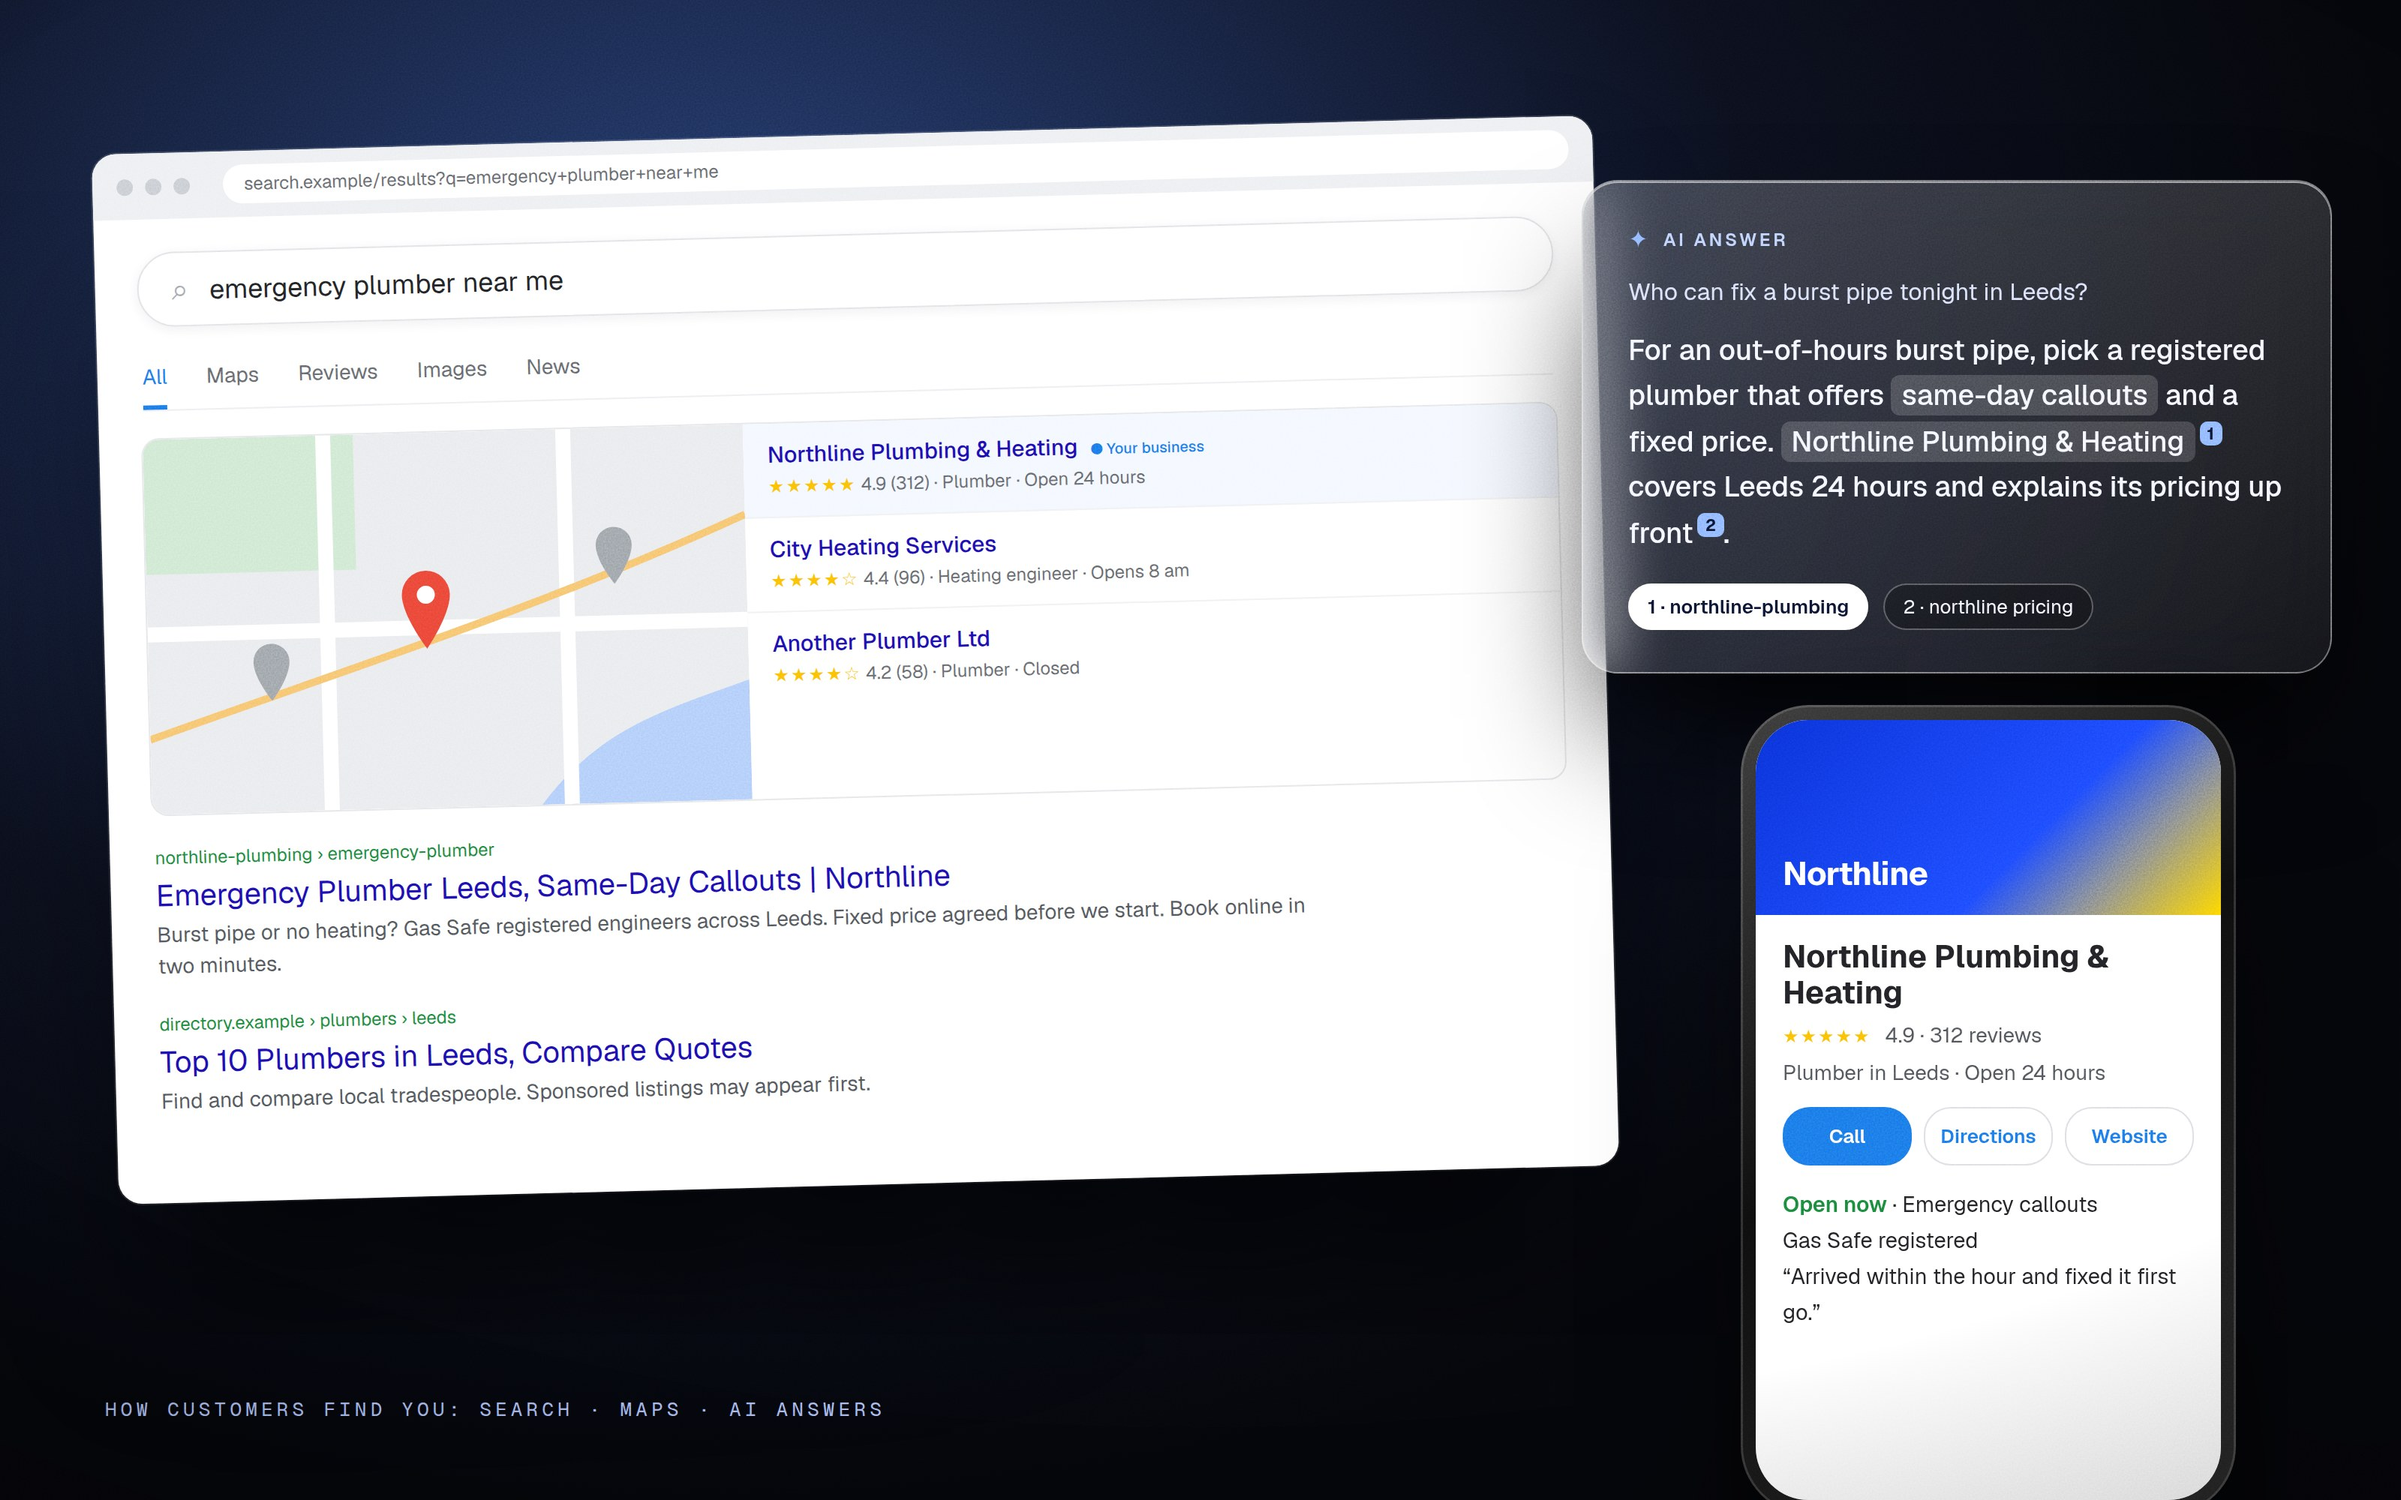
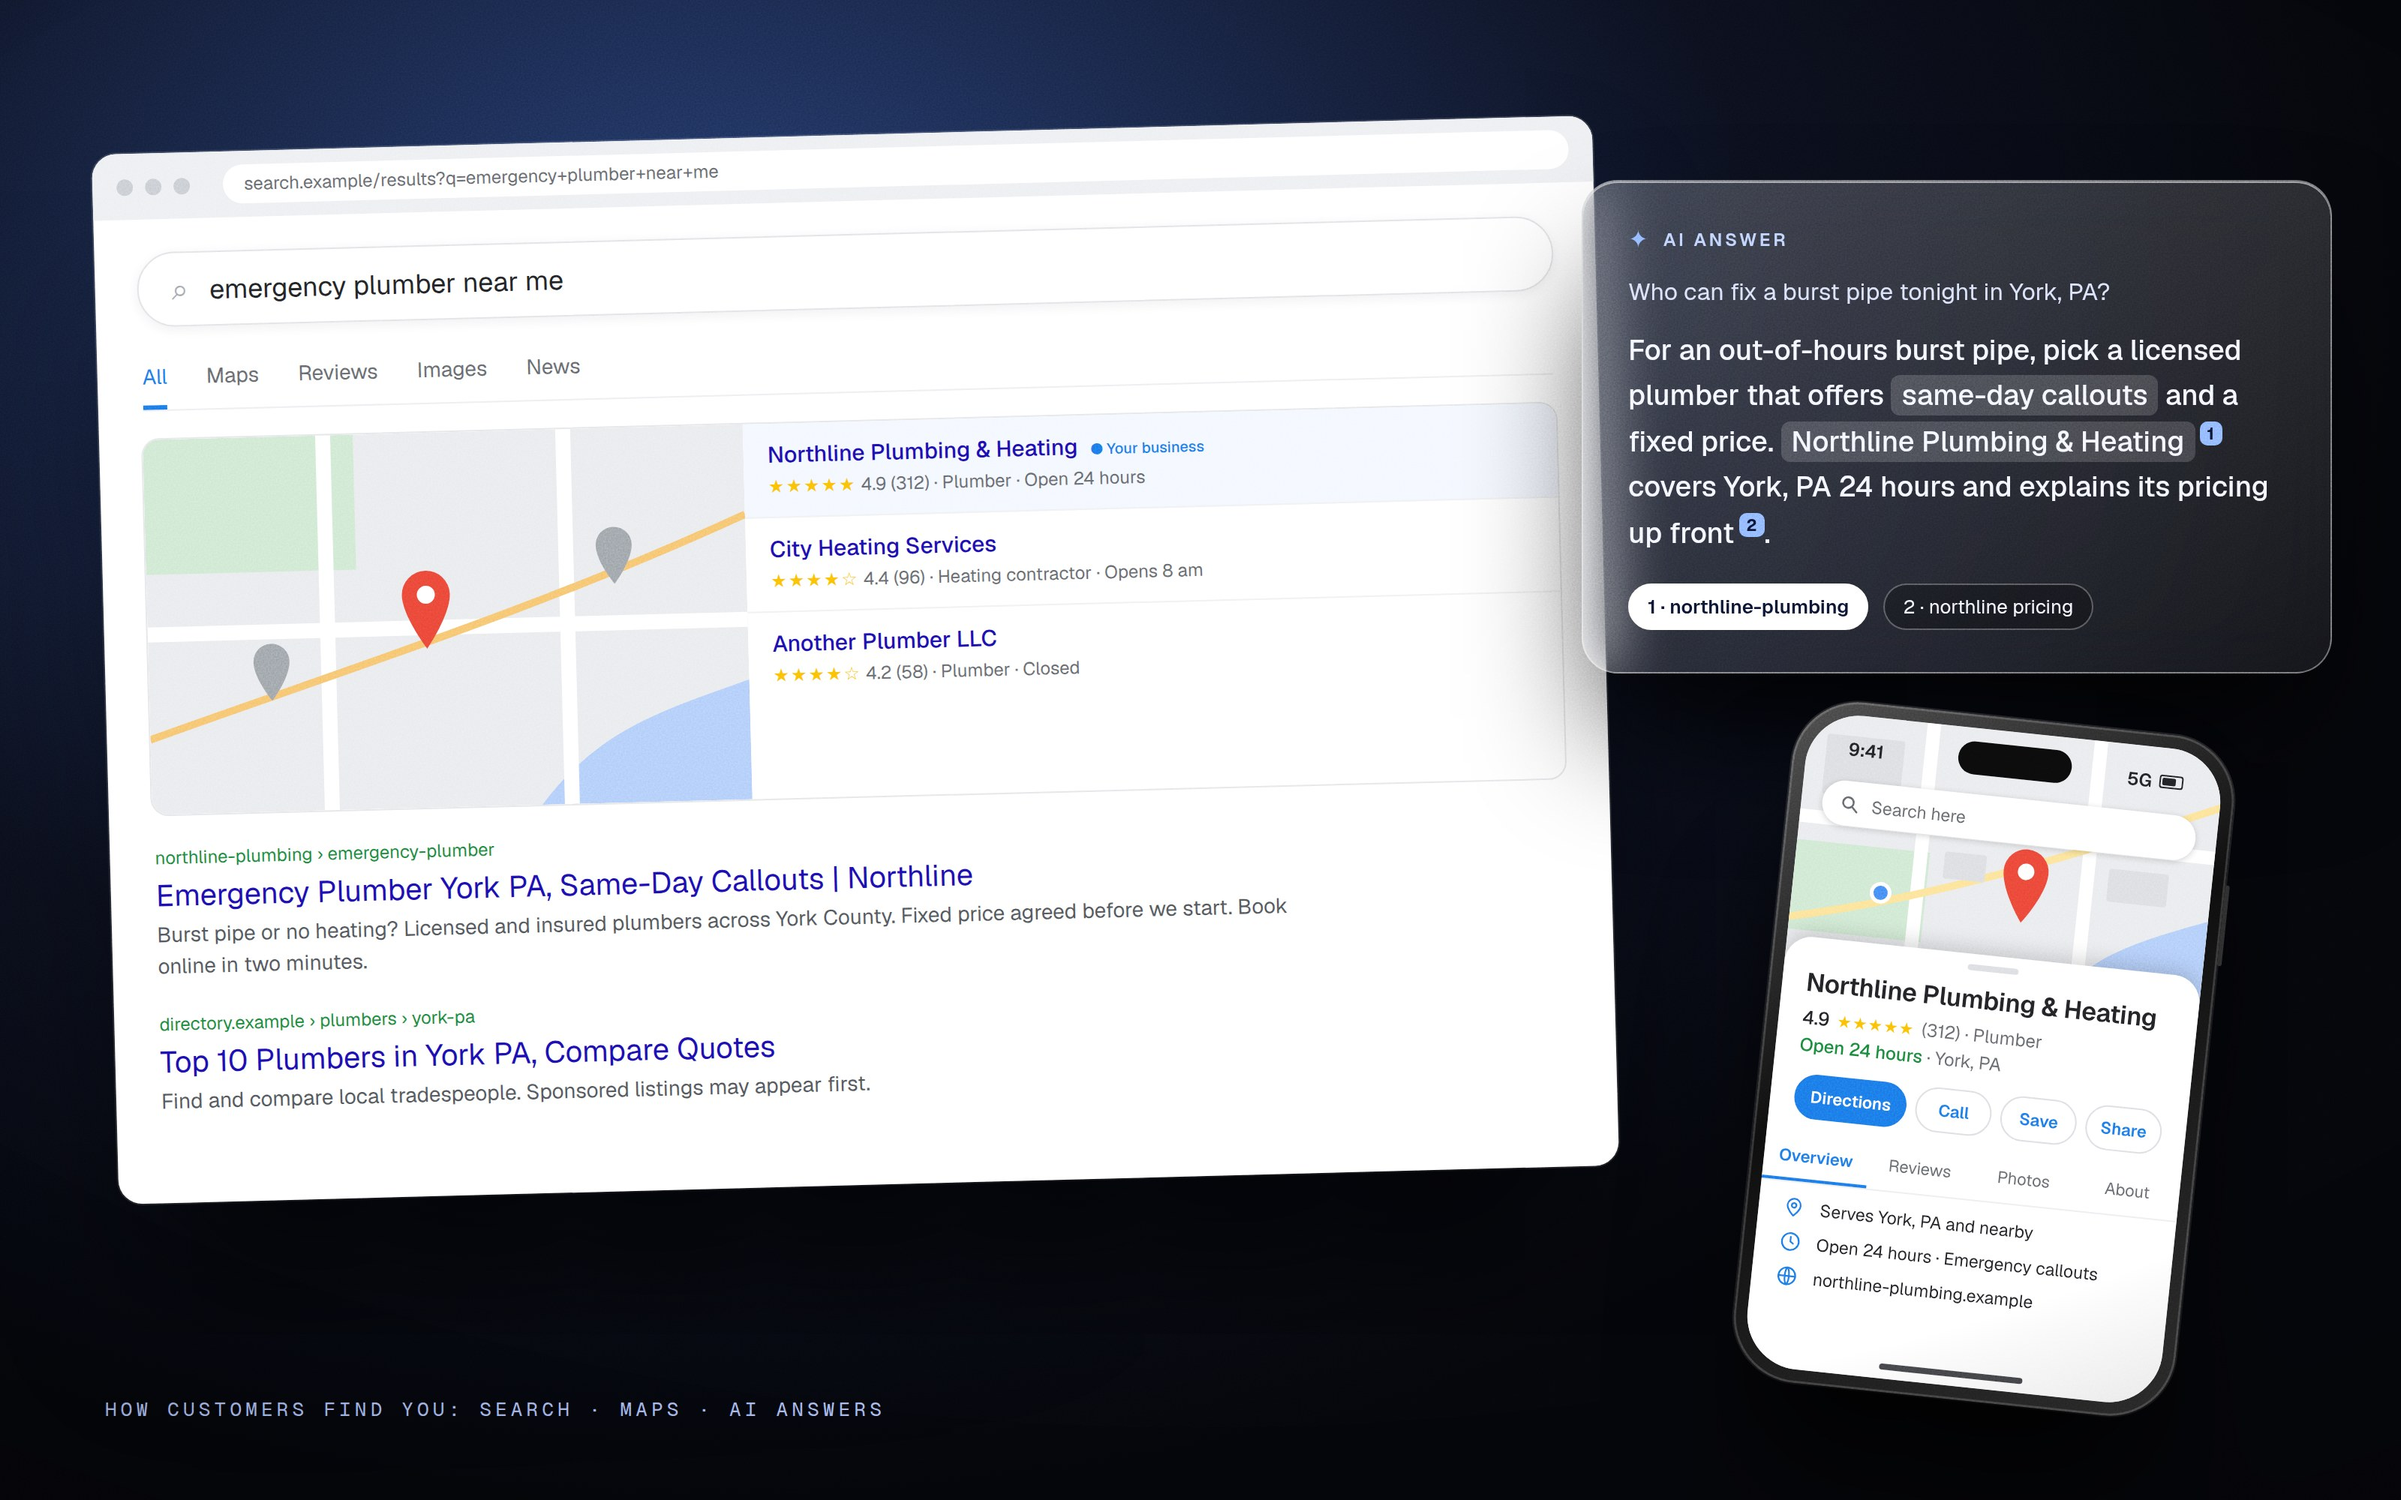
SEO visual: realistic Google Maps phone preview, tilted and smaller; York PA copy
Claude-Session: https://claude.ai/code/session_01CjcNwziT3LMe1wqcJ5e6Nj

diff --git a/design/mockups/scenes/seo-search.html b/design/mockups/scenes/seo-search.html
@@ -17,12 +17,23 @@
 .ai h5{font-size:12px;letter-spacing:.16em;text-transform:uppercase;color:#bcd0ff;font-weight:600;display:flex;align-items:center;gap:8px}.ai h5::before{content:"✦";font-size:16px;color:#8ab4ff}
 .q{margin-top:14px;font-size:16px;color:#d8e0fa}.a{margin-top:14px;font-size:19px;line-height:1.6;font-weight:500}.a em{font-style:normal;background:#ffffff26;padding:1px 7px;border-radius:6px}.a sup{font-size:11px;background:#8ab4ff;color:#0b1330;border-radius:5px;padding:1px 5px;margin-left:3px;font-weight:700}
 .src{display:flex;gap:10px;margin-top:18px;flex-wrap:wrap}.src span{font-size:13px;border:1px solid #ffffff44;border-radius:999px;padding:6px 12px;background:#00000040}.src span.top{background:#fff;color:#0b1330;border-color:#fff;font-weight:600}
-.phone{position:absolute;right:110px;top:470px;width:330px;height:540px;border-radius:46px;padding:10px;background:linear-gradient(145deg,#3a3a3a,#0d0d0d 45%,#262626);box-shadow:0 70px 110px -20px #000,inset 0 0 0 1.5px #ffffff22}
-.scr{position:relative;width:100%;height:100%;border-radius:35px;background:#fff;color:#202124;overflow:hidden}
-.ph1{height:130px;background:linear-gradient(135deg,#0a2fd6,#1c47ff 60%,#ffd400);position:relative}.ph1 b{position:absolute;left:18px;bottom:14px;color:#fff;font-size:22px;letter-spacing:-.02em}
-.pn{padding:16px 18px}.pn h3{font-size:21px;line-height:1.15}.pn .r{margin-top:7px;font-size:14px;color:#4d5156}.pn .r .star{margin-right:6px}
-.btns{display:grid;grid-template-columns:repeat(3,1fr);gap:8px;margin-top:14px}.btns span{border:1px solid #dadce0;border-radius:18px;text-align:center;padding:10px 0;font-size:13px;color:#1a73e8;font-weight:600}.btns .p{background:#1a73e8;color:#fff;border-color:#1a73e8}
-.row{margin-top:14px;font-size:14.5px;color:#202124;line-height:1.65}.row b{color:#188038;font-weight:600}
+.phone{position:absolute;right:130px;top:478px;width:296px;height:456px;border-radius:44px;padding:9px;background:linear-gradient(145deg,#4a4a4a,#0d0d0d 45%,#2a2a2a);box-shadow:0 60px 90px -20px #000,0 0 0 1px #ffffff1c,inset 0 0 0 1.5px #ffffff26;transform:rotate(6deg);transform-origin:50% 50%}
+.phone::before{content:"";position:absolute;right:-3px;top:96px;width:3px;height:54px;border-radius:2px;background:#2b2b2b}
+.scr{position:relative;width:100%;height:100%;border-radius:36px;background:#e8eaed;color:#202124;overflow:hidden;font-family:"G",system-ui,sans-serif}
+.isl{position:absolute;left:50%;top:9px;width:76px;height:22px;margin-left:-38px;border-radius:12px;background:#0b0b0b;z-index:5}
+.stat{position:absolute;left:0;right:0;top:0;height:40px;z-index:4;display:flex;justify-content:space-between;align-items:center;padding:6px 26px 0 28px;font-size:12px;font-weight:600;color:#202124}
+.stat i{display:inline-block;width:16px;height:9px;border-radius:2px;border:1.5px solid #202124;position:relative;margin-left:5px}.stat i::after{content:"";position:absolute;left:1px;top:1px;bottom:1px;width:9px;background:#202124;border-radius:1px}
+.gm{position:absolute;left:0;right:0;top:0;height:178px}.gm>svg{position:absolute;inset:0;width:100%;height:100%}
+.gsearch{position:absolute;left:14px;right:14px;top:44px;height:30px;border-radius:15px;background:#fff;box-shadow:0 1px 4px #0003;font-size:11.5px;color:#5f6368;display:flex;align-items:center;padding:0 12px;gap:8px;z-index:3}
+.sheet{position:absolute;left:0;right:0;top:150px;bottom:0;background:#fff;border-radius:18px 18px 0 0;box-shadow:0 -3px 14px #0003;padding:0 16px}
+.grab{width:34px;height:4px;border-radius:2px;background:#dadce0;margin:7px auto 9px}
+.sheet h3{font-size:17px;line-height:1.2;font-weight:600;letter-spacing:-.01em}
+.rt{display:flex;align-items:center;gap:5px;margin-top:5px;font-size:12px;color:#5f6368}.rt b{color:#202124;font-weight:500;font-size:12.5px}.rt .star{font-size:11px;letter-spacing:.5px}
+.sub{margin-top:2px;font-size:12px;color:#5f6368}.sub u{text-decoration:none;color:#188038;font-weight:500}
+.act{display:flex;gap:6px;margin-top:11px}.act span{flex:1;border:1px solid #dadce0;border-radius:16px;text-align:center;padding:7px 0;font-size:11px;color:#1a73e8;font-weight:600}.act .p{background:#1a73e8;border-color:#1a73e8;color:#fff;flex:1.5}
+.gtabs{display:flex;margin:10px -16px 0;border-bottom:1px solid #ebedf0;font-size:11px;color:#5f6368}.gtabs span{flex:1;text-align:center;padding:8px 0}.gtabs .on{color:#1a73e8;font-weight:600;border-bottom:2.5px solid #1a73e8}
+.inf{margin-top:9px;font-size:11.5px;color:#202124;display:grid;gap:8px}.inf div{display:flex;align-items:center;gap:10px}.inf svg{width:15px;height:15px;flex:none;fill:none;stroke:#1a73e8;stroke-width:1.8;stroke-linecap:round;stroke-linejoin:round}
+.hbar{position:absolute;left:50%;bottom:6px;width:96px;height:4px;margin-left:-48px;border-radius:2px;background:#202124;opacity:.85}
 .cap{position:absolute;left:70px;bottom:52px;font-family:"M";font-size:13px;letter-spacing:.2em;text-transform:uppercase;color:#9fb2e8}
 </style></head><body data-w="1600" data-h="1000" data-scale="2" data-q="88">
 <div class="edit vig"><div class="bg"></div>
@@ -30,11 +41,24 @@
   <div class="search"><span>⌕</span><b>emergency plumber near me</b></div>
   <div class="tabs"><span class="on">All</span><span>Maps</span><span>Reviews</span><span>Images</span><span>News</span></div>
   <div class="pack"><div class="map"><svg viewBox="0 0 400 250" preserveAspectRatio="xMidYMid slice"><rect width="400" height="250" fill="#e8eaed"/><rect x="0" y="0" width="140" height="90" fill="#cde8d0"/><path d="M260 250 C300 200 340 190 400 170 L400 250Z" fill="#aecbfa"/><g stroke="#fff" stroke-width="10" fill="none"><path d="M0 130H400M120 0V250M280 0V250"/></g><g stroke="#f6c26b" stroke-width="5" fill="none"><path d="M0 200 C120 160 260 120 400 60"/></g><g><path d="M200 108a16 16 0 1 1 32 0c0 14-16 36-16 36s-16-22-16-36z" transform="translate(-30 0)" fill="#ea4335"/><circle cx="186" cy="108" r="6" fill="#fff"/><path d="M0 0" /><path d="M300 78a12 12 0 1 1 24 0c0 11-12 26-12 26s-12-15-12-26z" fill="#9aa0a6"/><path d="M70 150a12 12 0 1 1 24 0c0 11-12 26-12 26s-12-15-12-26z" fill="#9aa0a6"/></g></svg></div>
-   <div class="list"><div class="you"><b>Northline Plumbing &amp; Heating</b><small><span class="star">★★★★★</span> 4.9 (312) · Plumber · Open 24 hours</small></div><div><b>City Heating Services</b><small><span class="star">★★★★☆</span> 4.4 (96) · Heating engineer · Opens 8 am</small></div><div><b>Another Plumber Ltd</b><small><span class="star">★★★★☆</span> 4.2 (58) · Plumber · Closed</small></div></div></div>
-  <div class="res"><small>northline-plumbing › emergency-plumber</small><h4>Emergency Plumber Leeds, Same-Day Callouts | Northline</h4><p>Burst pipe or no heating? Gas Safe registered engineers across Leeds. Fixed price agreed before we start. Book online in two minutes.</p></div>
-  <div class="res"><small>directory.example › plumbers › leeds</small><h4>Top 10 Plumbers in Leeds, Compare Quotes</h4><p>Find and compare local tradespeople. Sponsored listings may appear first.</p></div>
+   <div class="list"><div class="you"><b>Northline Plumbing &amp; Heating</b><small><span class="star">★★★★★</span> 4.9 (312) · Plumber · Open 24 hours</small></div><div><b>City Heating Services</b><small><span class="star">★★★★☆</span> 4.4 (96) · Heating contractor · Opens 8 am</small></div><div><b>Another Plumber LLC</b><small><span class="star">★★★★☆</span> 4.2 (58) · Plumber · Closed</small></div></div></div>
+  <div class="res"><small>northline-plumbing › emergency-plumber</small><h4>Emergency Plumber York PA, Same-Day Callouts | Northline</h4><p>Burst pipe or no heating? Licensed and insured plumbers across York County. Fixed price agreed before we start. Book online in two minutes.</p></div>
+  <div class="res"><small>directory.example › plumbers › york-pa</small><h4>Top 10 Plumbers in York PA, Compare Quotes</h4><p>Find and compare local tradespeople. Sponsored listings may appear first.</p></div>
  </div>
- <div class="ai"><h5>AI answer</h5><div class="q">Who can fix a burst pipe tonight in Leeds?</div><div class="a">For an out-of-hours burst pipe, pick a registered plumber that offers <em>same-day callouts</em> and a fixed price. <em>Northline Plumbing &amp; Heating</em><sup>1</sup> covers Leeds 24 hours and explains its pricing up front<sup>2</sup>.</div><div class="src"><span class="top">1 · northline-plumbing</span><span>2 · northline pricing</span></div></div>
- <div class="phone"><div class="scr"><div class="ph1"><b>Northline</b></div><div class="pn"><h3>Northline Plumbing &amp; Heating</h3><div class="r"><span class="star">★★★★★</span> 4.9 · 312 reviews</div><div class="r">Plumber in Leeds · Open 24 hours</div><div class="btns"><span class="p">Call</span><span>Directions</span><span>Website</span></div><div class="row"><b>Open now</b> · Emergency callouts<br>Gas Safe registered<br>“Arrived within the hour and fixed it first go.”</div></div></div></div>
+ <div class="ai"><h5>AI answer</h5><div class="q">Who can fix a burst pipe tonight in York, PA?</div><div class="a">For an out-of-hours burst pipe, pick a licensed plumber that offers <em>same-day callouts</em> and a fixed price. <em>Northline Plumbing &amp; Heating</em><sup>1</sup> covers York, PA 24 hours and explains its pricing up front<sup>2</sup>.</div><div class="src"><span class="top">1 · northline-plumbing</span><span>2 · northline pricing</span></div></div>
+ <div class="phone"><div class="scr"><div class="isl"></div><div class="stat"><span>9:41</span><span>5G<i></i></span></div>
+  <div class="gm"><svg viewBox="0 0 280 178" preserveAspectRatio="xMidYMid slice"><rect width="280" height="178" fill="#e8eaed"/><rect x="0" y="86" width="90" height="60" fill="#cde8d0"/><path d="M180 178 C205 140 240 128 280 112 L280 178Z" fill="#aecbfa"/><g stroke="#fff" stroke-width="9" fill="none"><path d="M0 70H280M84 0V178M196 0V178"/></g><g stroke="#fde293" stroke-width="5" fill="none"><path d="M0 138 C90 118 190 76 280 36"/></g><g fill="#dadce0"><rect x="100" y="84" width="28" height="18" rx="2"/><rect x="210" y="84" width="40" height="22" rx="2"/><rect x="14" y="14" width="52" height="40" rx="2"/></g><g transform="translate(0 52)"><path d="M140 40a15 15 0 1 1 30 0c0 14-15 34-15 34s-15-20-15-34z" fill="#ea4335"/><circle cx="155" cy="40" r="5.5" fill="#fff"/></g><circle cx="60" cy="116" r="6" fill="#4285f4" stroke="#fff" stroke-width="2.5"/></svg>
+   <div class="gsearch"><svg width="13" height="13" viewBox="0 0 24 24" fill="none" stroke="#5f6368" stroke-width="2.4" stroke-linecap="round"><circle cx="10" cy="10" r="6.5"/><path d="M15 15l6 6"/></svg>Search here</div></div>
+  <div class="sheet"><div class="grab"></div><h3>Northline Plumbing &amp; Heating</h3>
+   <div class="rt"><b>4.9</b><span class="star" style="color:#fbbc04">★★★★★</span>(312) · Plumber</div>
+   <div class="sub"><u>Open 24 hours</u> · York, PA</div>
+   <div class="act"><span class="p">Directions</span><span>Call</span><span>Save</span><span>Share</span></div>
+   <div class="gtabs"><span class="on">Overview</span><span>Reviews</span><span>Photos</span><span>About</span></div>
+   <div class="inf">
+    <div><svg viewBox="0 0 24 24"><path d="M12 21s-7-6.2-7-11a7 7 0 0 1 14 0c0 4.8-7 11-7 11z"/><circle cx="12" cy="10" r="2.5"/></svg>Serves York, PA and nearby</div>
+    <div><svg viewBox="0 0 24 24"><circle cx="12" cy="12" r="9"/><path d="M12 7v5l3 2"/></svg>Open 24 hours · Emergency callouts</div>
+    <div><svg viewBox="0 0 24 24"><circle cx="12" cy="12" r="9"/><path d="M3 12h18M12 3c3 3 3 15 0 18M12 3c-3 3-3 15 0 18"/></svg>northline-plumbing.example</div>
+   </div></div>
+  <div class="hbar"></div></div></div>
  <div class="cap">How customers find you: search · maps · AI answers</div>
 </div></body></html>

diff --git a/docs/development/HANDOFF.md b/docs/development/HANDOFF.md
@@ -1,5 +1,9 @@
 # Handoff log (newest first)
 
+## 2026-10-05 (2) — Claude — SEO visual: realistic Google Maps phone
+
+- `design/mockups/scenes/seo-search.html` -> `public/images/mockups/seo-search.jpg`: bottom-right phone is now a Google Maps place sheet (status bar, map with pin, bottom sheet with name, rating, Directions/Call/Save/Share, tabs, info rows). Smaller, clear of the bottom edge, rotated 6deg clockwise. Scene text changed from Leeds/UK to York, PA (fictional business). Re-render with `node design/mockups/render.mjs seo-search`. No code or migration changes.
+
 ## 2026-10-05 — Claude — total revenue incl. MRR, leads default tab, lead→client, Venmo (0022)
 
 - Dashboard Total revenue = all payments received + this month's MRR (note shows the split). Month card unchanged (received + MRR).
